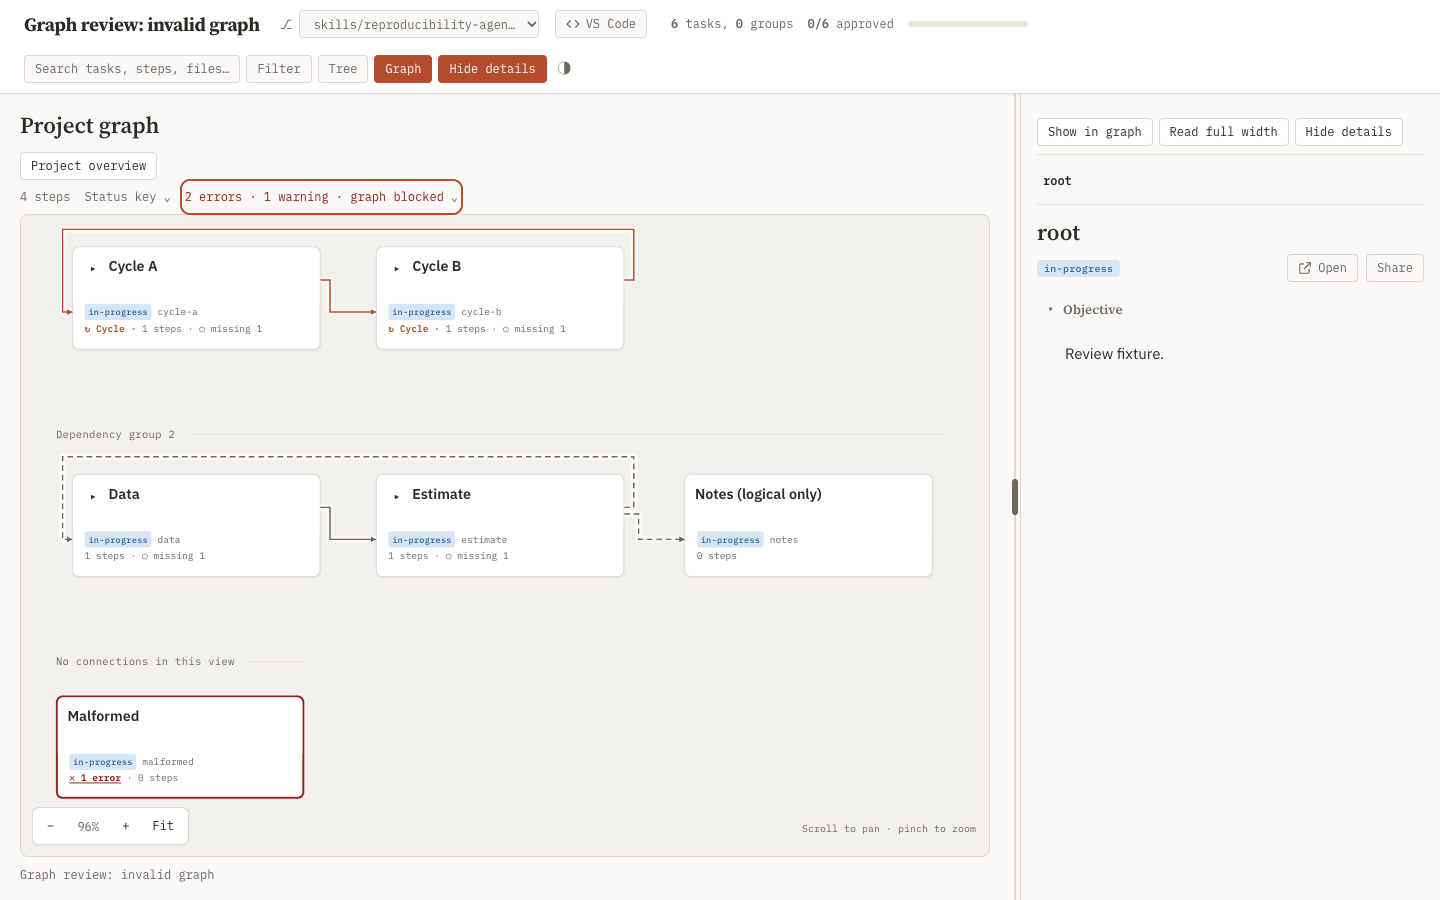
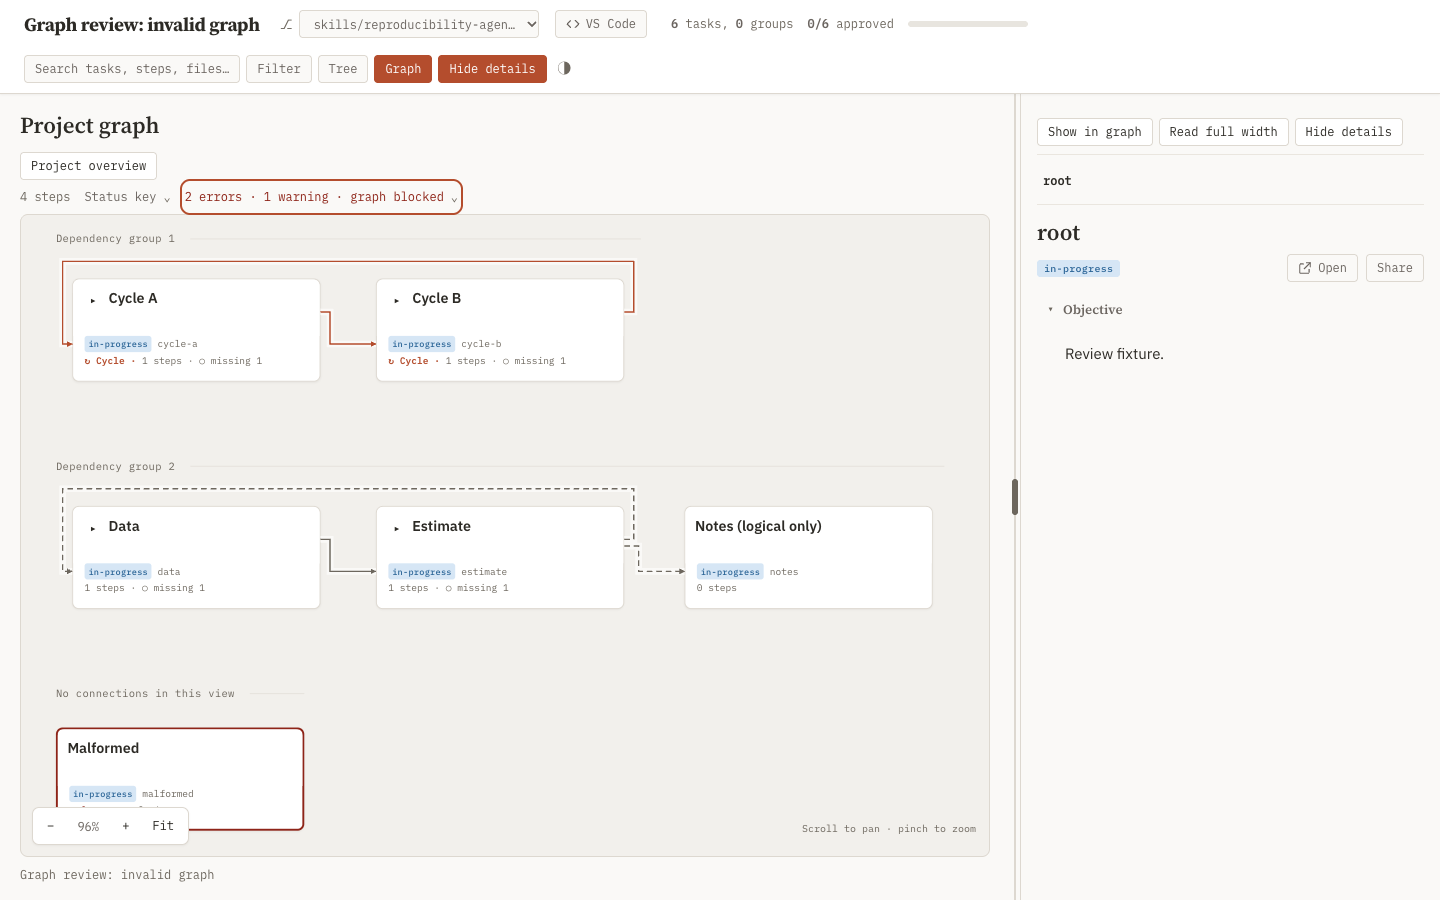
fix(reproducibility/14-review-revisions): four deferred review advisories
A step that passed the stop check still superseded its acceptance before the
lock-guarded start, so an interrupt in that span dropped it; supersede now runs
under running_lock after the stop check (a failed step still supersedes). The
re-armed lock watch kept yield_on_timeout for its life; it now ticks once.
workspaceGraph filtered edges/boundaries the payload no longer sends; it filters
dependencies.logical. Removed the unreferenced reader/refresh/center handlers.
Rebuilt engine-freshness-check and the 06 graph-review steps.

diff --git a/skills/task-tree/scripts/templates/dashboard.js b/skills/task-tree/scripts/templates/dashboard.js
@@ -462,11 +462,9 @@ function workspaceGraph(graph) {
   if(archived.length){var catalog=workspaceTasks(),known=new Set(graph.dependencies.tasks.map(function(t){return t.path;})),extra=catalog.filter(function(t){return archived.includes(t.path)&&!known.has(t.path);});graph=Object.assign({},graph,{dependencies:Object.assign({},graph.dependencies,{tasks:graph.dependencies.tasks.concat(extra)})});}
   if(_workspaceFilters.tasks===null&&!_workspaceFilters.statuses.length)return graph;
   var visibility=workspaceVisibility(),steps=(graph.steps||[]).filter(function(s){return visibility.matches.has(s.task);}),names=new Set(steps.map(function(s){return s.name;}));
-  var dependencies=Object.assign({},graph.dependencies),boundaries={};
-  Object.keys(dependencies.boundaries||{}).forEach(function(k){var b=dependencies.boundaries[k];boundaries[k]=Object.assign({},b,{edges:(b.edges||[]).filter(function(e){return visibility.visible.has(e.from)&&visibility.visible.has(e.to);})});});
+  var dependencies=Object.assign({},graph.dependencies);
   dependencies.tasks=(dependencies.tasks||[]).filter(function(t){return visibility.visible.has(t.path);});
-  dependencies.edges=(dependencies.edges||[]).filter(function(e){return visibility.visible.has(e.from)&&visibility.visible.has(e.to);});
-  dependencies.boundaries=boundaries;
+  dependencies.logical=(dependencies.logical||[]).filter(function(e){return visibility.visible.has(e.from)&&visibility.visible.has(e.to);});
   return Object.assign({},graph,{dependencies:dependencies,tasks:(graph.tasks||[]).filter(function(t){return visibility.visible.has(t.path);}),steps:steps,step_edges:(graph.step_edges||[]).filter(function(e){return names.has(e.from)&&names.has(e.to);})});
 }
 function workspaceWriteHistory() {
@@ -1911,7 +1909,6 @@ function onReproClick(event) {
     else if(action==='show-selected'){if(_reproSelected){_reproReaderFull=false;showView('reproduction');reproSizeWorkspace();if(_reproReaderCompact)reproSetReader(false);revealReproStep(_reproSelected);}else reproFocus(activePath);}
     else if(action==='full-reader'){if(_reproReaderCompact){reproSetReader(false);return;}_reproReaderFull=!_reproReaderFull;document.getElementById('workspace').classList.toggle('dag-full-reader',_reproReaderFull);reproSizeWorkspace();var focus=document.querySelector('#dag-reader-controls [data-rp-action=full-reader]');if(focus)focus.focus({preventScroll:true});}
     else if(action==='close-reader')reproSetReader(false);
-    else if(action==='reader')reproSetReader(_reproReaderClosed);
     else if(action==='declaration')reproOpenDeclaration();
     else if(action==='copy-command')reproCopyCommand(control);
     else if(action==='fold'){
@@ -1926,11 +1923,9 @@ function onReproClick(event) {
     }
     else if(action==='close-edge')reproCloseGraphDetail();
     else if(action==='finding')reproShowFinding(value);
-    else if(action==='refresh')renderReproView(true);
     else if(action==='open'||action==='related')revealReproStep(value);
     else if(action==='select')selectReproStep(value);
     else if (action === 'fit') reproFit();
-    else if (action === 'center') reproCenter();
     else if (action === 'zoom-in' || action === 'zoom-out') {
       var canvas = document.querySelector('#view-reproduction .repro-canvas');
       if (canvas) {

diff --git a/skills/task-tree/scripts/repro_run.py b/skills/task-tree/scripts/repro_run.py
@@ -154,7 +154,7 @@ def _run_step(build: Build, step: Step, entry) -> str:
     # A rerun an acceptance or an unverified saved input required stays owed
     # if it fails, like a forced one: restored bytes must not read as fresh.
     must_retry = forced or bool(entry.acceptance_invalid) or any(c.kind == "boundary" for c in entry.changes)
-    supersede(paths, step.name)
+    committed = False
     try:
         log_path = paths.log_file(step.name)
         log_path.parent.mkdir(parents=True, exist_ok=True)
@@ -178,6 +178,8 @@ def _run_step(build: Build, step: Step, entry) -> str:
             with build.running_lock:
                 if build.stopping.is_set():
                     raise StepFailed(f"step {step.name!r} was interrupted before it started")
+                supersede(paths, step.name)  # acceptance survives until the step is committed to run
+                committed = True
                 process = subprocess.Popen(  # noqa: S602 - a declared shell step
                     step.cmd, shell=True, cwd=str(paths.project_root),
                     stdout=log, stderr=subprocess.STDOUT, start_new_session=True,
@@ -217,6 +219,8 @@ def _run_step(build: Build, step: Step, entry) -> str:
         check_sources(graph)
         receipt = capture_receipt(graph, step, paths, before)
     except BaseException as exc:
+        if committed or not build.stopping.is_set():
+            supersede(paths, step.name)  # a failed step owes a rerun; an interrupt before its start does not
         record = read_run_record(paths, step.name)
         record.update(outcome="failed", forced=must_retry or record.get("forced", False), error=str(exc))
         write_run_record(paths, step.name, record)

diff --git a/skills/task-tree/scripts/test_repro_engine.py b/skills/task-tree/scripts/test_repro_engine.py
@@ -196,6 +196,27 @@ def test_an_interrupt_leaves_queued_steps_and_their_acceptance_untouched(project
     assert project.states()["build-a"] == "failed"
 
 
+def test_a_stop_after_the_check_leaves_the_steps_acceptance_standing(project, monkeypatch):
+    import repro_run
+    assert project.run("build", ".") == 0
+    project.write("Code/x.sh", project.read("Code/x.sh") + "# harmless\n")
+    review(project, ("03-x#build-x",))
+    ledger = project.root / LEDGER / "build-x.json"
+    accepted = ledger.read_bytes()
+    boundary, run_step = repro_run.boundary_inputs, repro_run._run_step
+
+    def stop_after_the_check(build, step, entry):
+        def late(*args, **kwargs):
+            build.stopping.set()  # the interrupt lands after the pre-start check
+            return boundary(*args, **kwargs)
+        monkeypatch.setattr(repro_run, "boundary_inputs", late)
+        return run_step(build, step, entry)
+
+    monkeypatch.setattr(repro_run, "_run_step", stop_after_the_check)
+    project.run("build", "03-x", "--force")
+    assert ledger.read_bytes() == accepted  # supersede waits for the step to actually start
+
+
 # ---------------------------------------------------------------------------
 # Freshness fixes
 # ---------------------------------------------------------------------------

diff --git a/skills/task-tree/scripts/plan_dashboard.py b/skills/task-tree/scripts/plan_dashboard.py
@@ -611,6 +611,7 @@ async def _watch_worktree(wt: str, stop_event: asyncio.Event) -> None:
         watching_lock = lock_file.is_file()
         watch_paths = [state.plan_root] + ([lock_file] if watching_lock else [])
         rearm = False
+        first_only = watching_lock and refreshed is not None  # the timeout yield serves only the first check
         watcher = watchfiles.awatch(
             *watch_paths, stop_event=stop_event,
             yield_on_timeout=not watching_lock or refreshed is not None,
@@ -621,6 +622,10 @@ async def _watch_worktree(wt: str, stop_event: asyncio.Event) -> None:
                     if _lock_signature() != refreshed:
                         changes = set(changes) | {(watchfiles.Change.modified, str(lock_file))}
                     refreshed = None
+                if first_only and not changes:
+                    rearm = True  # re-arm without the timeout yield
+                    break
+                first_only = False
                 if changes:
                     # watchfiles already debounces (default 1600ms); the sleep
                     # adds a short extra window so rapid back-to-back writes

diff --git a/skills/task-tree/scripts/test_dashboard.py b/skills/task-tree/scripts/test_dashboard.py
@@ -6997,6 +6997,24 @@ class TestReproLockWatch:
             self._reset()
             loop.close()
 
+    def test_the_reopened_watch_ticks_only_once(self, tmp_path, monkeypatch):
+        """A quiet first tick after a re-arm has done its comparison; the next
+        watch is event-driven again."""
+        import watchfiles
+
+        self._reset()
+        self._seed(tmp_path)
+        lock = tmp_path / "repro-lock.json"
+        lock.write_text("{}", encoding="utf-8")
+        sessions = self._stub_awatch(monkeypatch, [[{(watchfiles.Change.added, str(lock))}], [set()], []])
+        loop = asyncio.new_event_loop()
+        try:
+            loop.run_until_complete(plan_dashboard._watch_worktree("wt-a", asyncio.Event()))
+            assert [s["yield_on_timeout"] for s in sessions[1:]] == [True, False]
+        finally:
+            self._reset()
+            loop.close()
+
 
 # ---------------------------------------------------------------------------
 # Reproduction findings + empty-state copy (node-backed)

diff --git a/superRA/reproducibility/14-review-revisions/01-engine-freshness/task.md b/superRA/reproducibility/14-review-revisions/01-engine-freshness/task.md
@@ -126,6 +126,7 @@ Owning tasks: [02-runner](../../02-runner/task.md), [task-scoped-builds](../../1
   - Four scoped-`status` assertions in `test_repro_scope.py` move from 0 to 3, the new exit code, because each selection is fresh with a never-built or stale producer behind it.
   - Two check-elsewhere reasons in `test_repro_provenance.py` now include `on <platform>`, because every lock entry carries `built_on`.
   - `test_repro_builds.py` follows the folded record beyond lines 19-23: the probe tests and the `lock_id` mismatch case are gone, the `explain` environment test compares platforms, and an identical-rebuild check is new.
+- **Deferred advisories.** `_run_step` supersedes a step's acceptance only under `running_lock` after the stop check, so a step an interrupt reaches before it starts keeps its acceptance ([test](../../../../skills/task-tree/scripts/test_repro_engine.py)). The dashboard's re-armed lock watch ticks on timeout once, then reopens event-driven ([test](../../../../skills/task-tree/scripts/test_dashboard.py)).
 - **Minor findings.** The dry-run upper bound is now documented. The rest are untouched: exit 1 on a fresh clone until checks run, the lingering invalid acceptance, and untracked Python imports.
 
 ## Details

diff --git a/superRA/reproducibility/14-review-revisions/06-dashboard/task.md b/superRA/reproducibility/14-review-revisions/06-dashboard/task.md
@@ -96,6 +96,7 @@ All six problems are fixed. The [review script](attachments/graph_review.py) pas
 
 - The review script's 17 checks: 11 fail at the base commit `7acbc7f7`, all pass here. The before figures above come from that base run.
 - New regression tests: [depends_on and step cycles only](../../../../skills/task-tree/scripts/tests/test_navigation_projection.py), declaration errors on folded ancestors, the error card and dashed edge in [test_dashboard.py](../../../../skills/task-tree/scripts/test_dashboard.py), findings sent once, and the [80% open](../../../../skills/task-tree/scripts/tests/test_dag_workspace_browser.py) in a browser.
+- Deferred advisories: `workspaceGraph` filters `dependencies.logical` (the payload's edge list) and no longer touches the removed `edges`/`boundaries`; the unreferenced `reader`, `refresh`, and `center` click handlers are gone.
 - The task-tree suite and harness tests: 1,433 passed, 9 skipped, and the intermittent browser test above failed once.
 
 ## Reproduction
